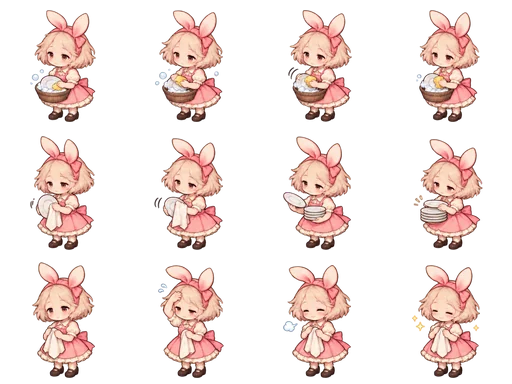
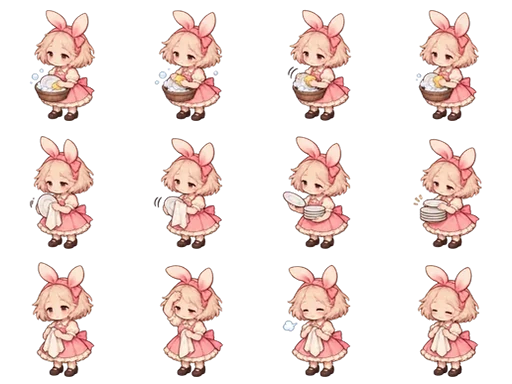
fix(sprites): HD 시트 격자 검사, 마감·요리 시트 여백 확보와 떨어진 효과 조각 정리
check-sprites.py가 *_hd 시트를 원본 시트 격자의 배율로 검사한다.
luna/luna_sis/neo_close, yeoni_cook_bake/drink(+HD)는 발 기준점 중심
균일 축소(0.90~0.996)로 칸 여백 6px(HD 12px)을 확보했다.

diff --git a/tools/check-sprites.py b/tools/check-sprites.py
@@ -27,18 +27,22 @@ for group,size,margin in [('actors',128,6),('wardrobe',256,8),('enemies',128,6)]
     previous=x+w
    if previous!=im.width:errors.append(path.name+': 원본 마지막 프레임 누락')
    continue
-  cw,ch=cells.get(f'{group}/{path.stem}') or (size,size)
+  base=path.stem[:-3] if path.stem.endswith('_hd') else path.stem
+  cw,ch=cells.get(f'{group}/{base}') or (size,size)
+  k,m=1,margin
+  if base!=path.stem: # 데스크톱 HD 시트는 같은 이름 원본 시트와 같은 격자를 배율만큼 키운 것
+   k=im.width//Image.open(path.with_name(base+'.webp')).width;cw,ch,m=cw*k,ch*k,margin*k
   if im.width%cw or im.height%ch:errors.append(f'{path.name}: 셀 크기 불일치');continue
   for row in range(im.height//ch):
    for col in range(im.width//cw):
     frames+=1;alpha=im.getchannel('A').crop((col*cw,row*ch,(col+1)*cw,(row+1)*ch));bbox=alpha.getbbox();key=f'{path.name} [{row},{col}]'
     if not bbox:errors.append(key+': 빈 프레임');continue
-    if min(bbox[0],bbox[1],cw-bbox[2],ch-bbox[3])<margin:errors.append(key+': 투명 여백 부족')
+    if min(bbox[0],bbox[1],cw-bbox[2],ch-bbox[3])<m:errors.append(key+': 투명 여백 부족')
     parts=components(np.asarray(alpha)>=24)
     if not parts:errors.append(key+': 본체 없음');continue
     mask=Image.new('L',(cw,ch));draw=ImageDraw.Draw(mask)
     for y,a,b in parts[0]:draw.line((a,y,b-1,y),fill=255)
-    reach=mask.filter(ImageFilter.MaxFilter(7 if size==128 else 13)).load()
+    reach=mask.filter(ImageFilter.MaxFilter(7 if size*k==128 else 13)).load()
     for part in parts[1:]:
      area=sum(b-a for y,a,b in part)
      if area>=4 and not any(reach[x,y] for y,a,b in part for x in range(a,b)):errors.append(key+': 본체와 떨어진 알파 조각')
